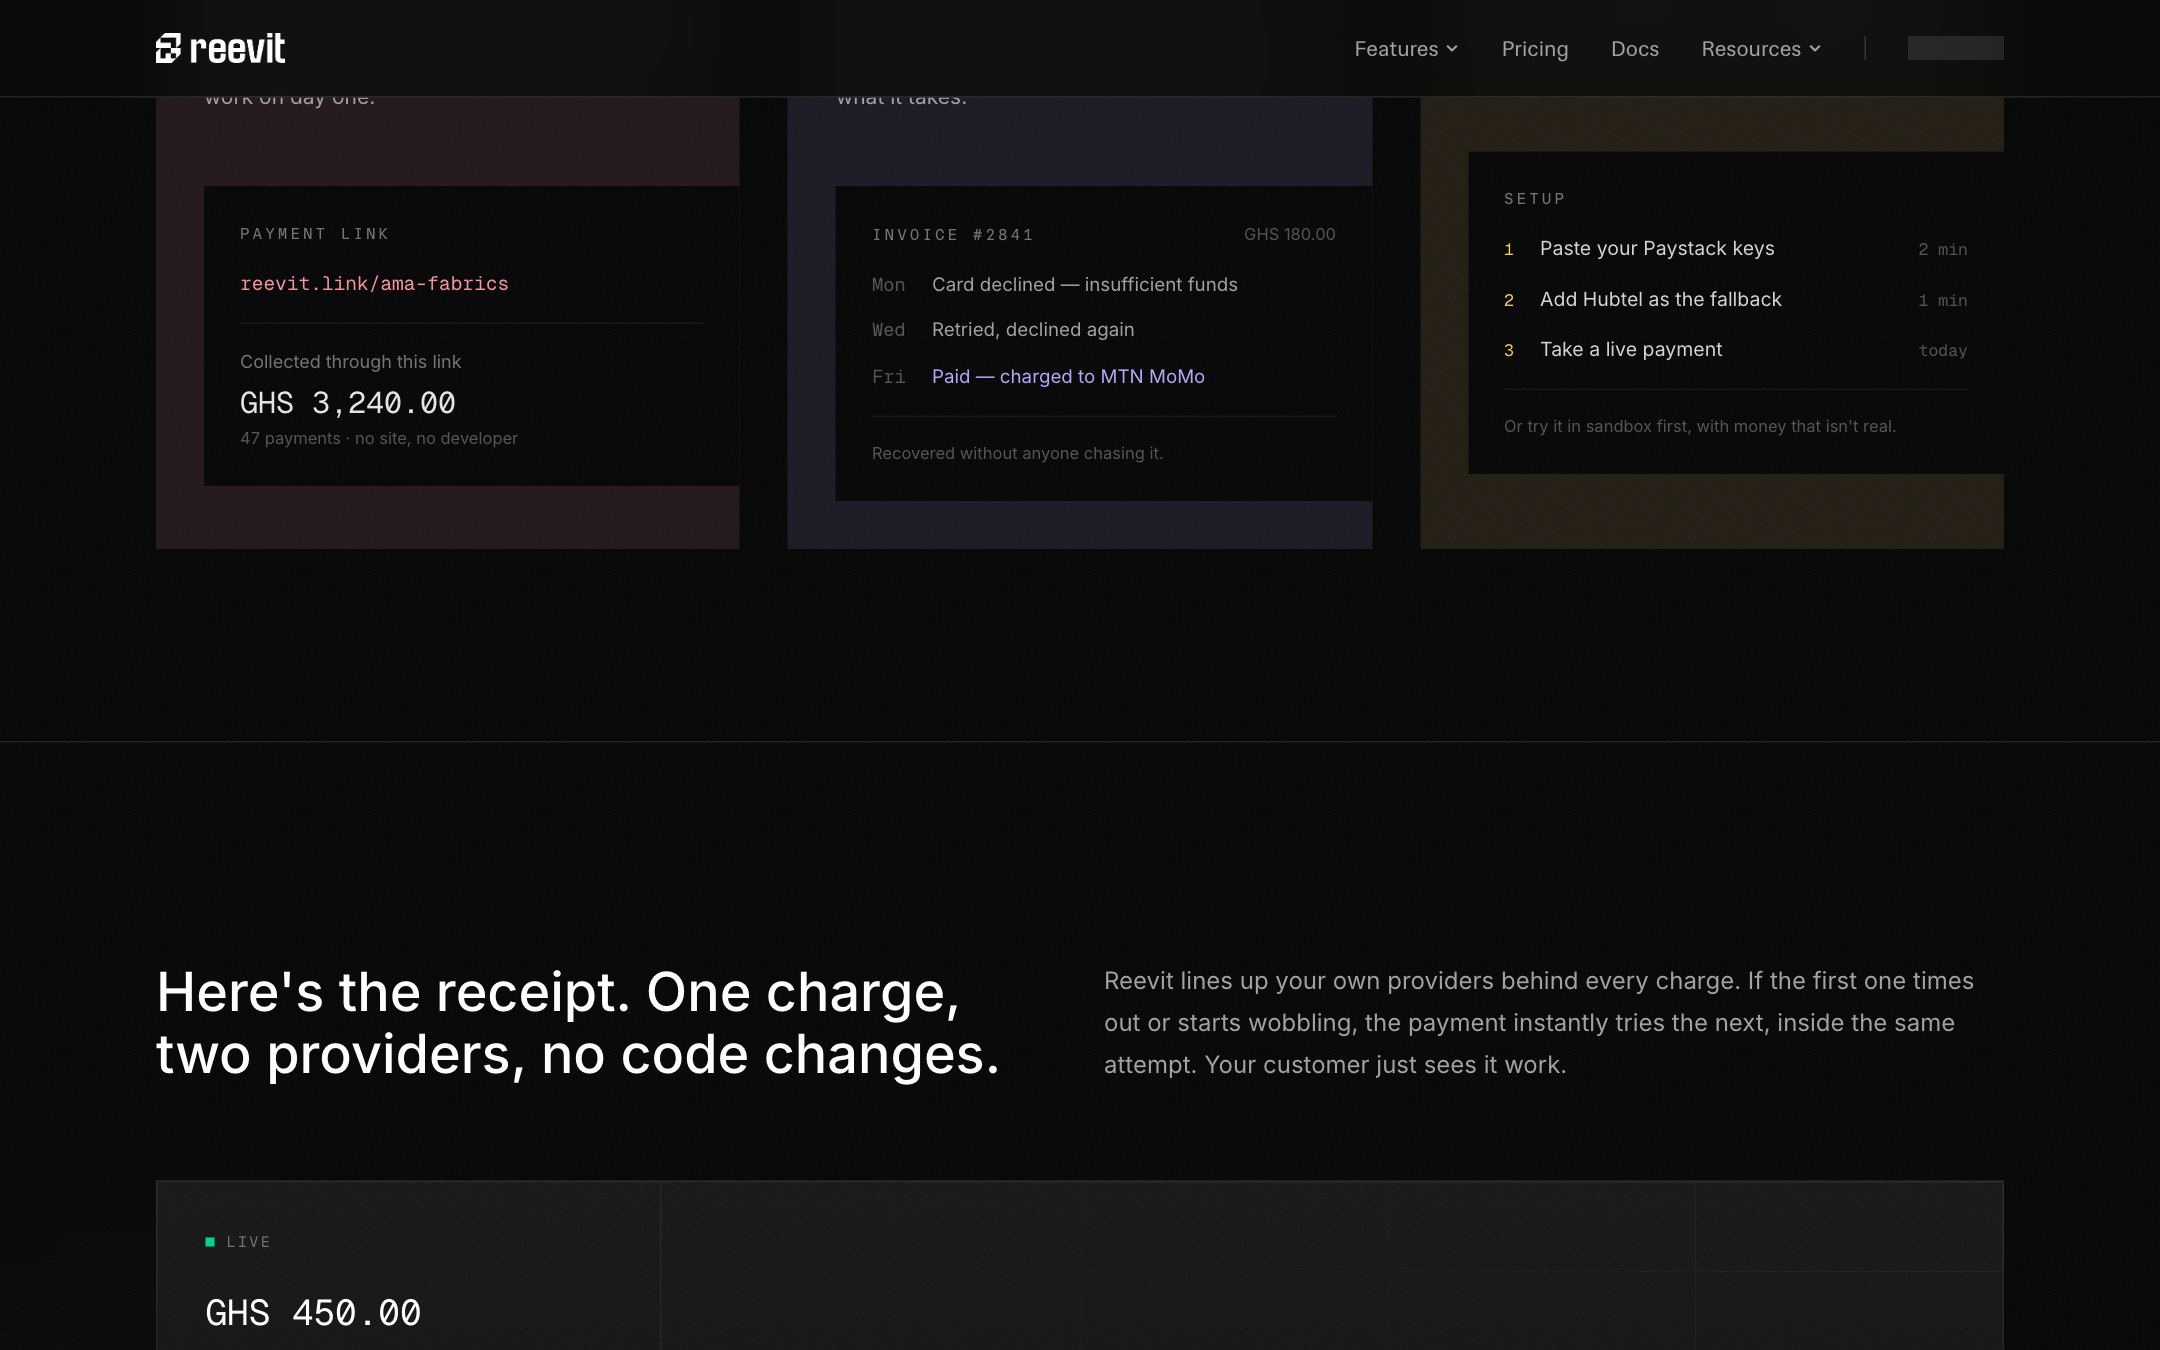
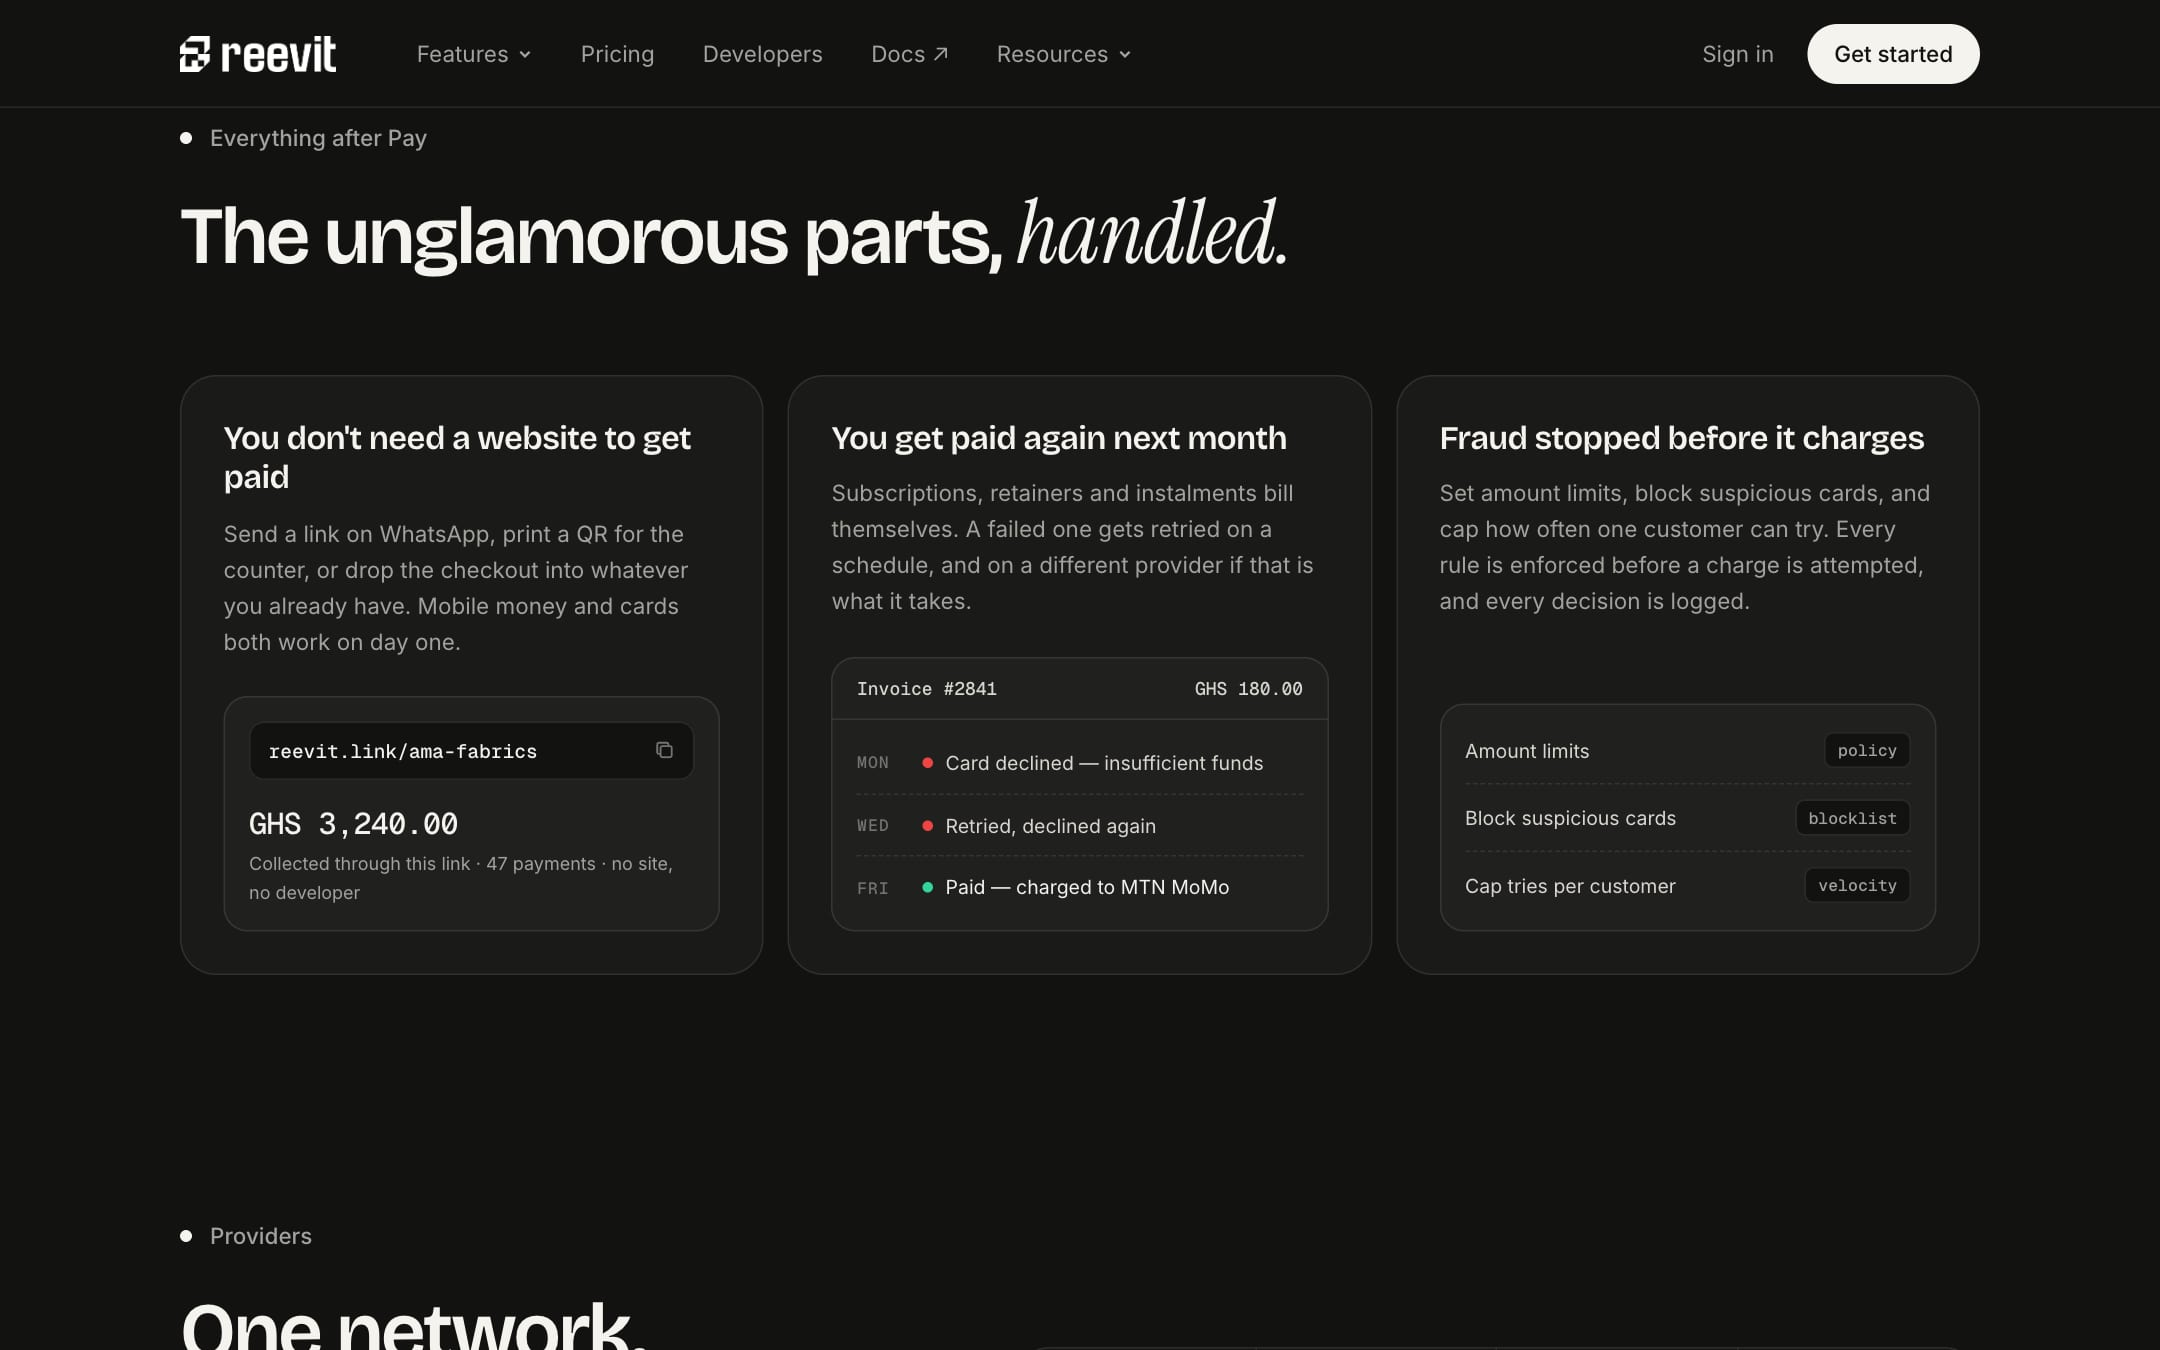
feat(work): update Reevit to the redesigned reevit.io
New cover, hero, phone shot and four product screens (routing chain,
invoice retries, payment links, dashboard overview), with crops, captions
and image descriptions to match. Drops three captures nothing referenced.

diff --git a/lib/site/project-details.ts b/lib/site/project-details.ts
@@ -380,8 +380,8 @@ export const DETAILS: Record<string, ProjectDetail> = {
             w: 2160,
             h: 1350,
             url: 'reevit.io',
-            alt: 'Reevit homepage: the headline “One provider goes down. Your customers never know.” above the merchant dashboard snapshot',
-            cap: ['reevit.io · homepage and merchant dashboard', 'Figures in the product UI are demo data'],
+            alt: 'Reevit homepage: the headline “One provider goes down. Your customers never know.” with provider icons and a rerouted-payment receipt set into the type',
+            cap: ['reevit.io · homepage', 'Figures in the product UI are demo data'],
         },
         brief: {
             statement: 'Payments that keep working',
@@ -429,10 +429,10 @@ export const DETAILS: Record<string, ProjectDetail> = {
                     title: 'A declined charge isn’t a lost sale.',
                     body: 'When a provider declines or stops answering, the same charge moves to the next one in the merchant’s chain, inside the same tap. Nobody has to ask the customer to try again.',
                     src: '/assets/case/reevit-s2.jpg',
-                    url: 'reevit.io/#features',
-                    crop: [0.055, 0.235, 0.45, 0.56],
-                    alt: 'Routing recovery card: payments recovered after failover, first-try and after-failover approval rates',
-                    cap: 'Routing recovery',
+                    url: 'reevit.io/#route',
+                    crop: [0.458, 0.2, 0.469, 0.6],
+                    alt: 'Routing chain for mobile money in Ghana: Paystack as primary with Hubtel and Flutterwave as fallbacks, each with a 48-hour health bar, above the amount recovered this month and approval rates on first try and after failover',
+                    cap: 'Routing chain and recovery',
                     note: 'Product UI · demo data',
                 },
                 {
@@ -440,9 +440,9 @@ export const DETAILS: Record<string, ProjectDetail> = {
                     title: 'Retries that change lanes.',
                     body: 'Subscriptions and instalments retry on a schedule, and on a different provider when one keeps declining. The invoice gets paid without anyone chasing it.',
                     src: '/assets/case/reevit-s3.jpg',
-                    url: 'reevit.io/#features',
-                    crop: [0.355, 0.1, 0.285, 0.33],
-                    alt: 'Invoice card: card declined Monday, declined again Wednesday, paid Friday by charging MTN MoMo',
+                    url: 'reevit.io/#more',
+                    crop: [0.354, 0.26, 0.293, 0.48],
+                    alt: '“You get paid again next month”: an invoice declined on Monday, declined again on Wednesday, then paid on Friday by charging MTN MoMo',
                     cap: 'Invoice retry timeline',
                     note: 'Product UI · demo data',
                 },
@@ -452,10 +452,10 @@ export const DETAILS: Record<string, ProjectDetail> = {
                     body: 'A payment link on WhatsApp, a QR on the counter, or the drop-in checkout. Mobile money and cards work on day one.',
                     chips: ['WhatsApp', 'QR code', 'Mobile money', 'Cards'],
                     src: '/assets/case/reevit-s6.jpg',
-                    url: 'reevit.io/#checkout',
-                    crop: [0.36, 0.07, 0.58, 0.65],
-                    alt: 'Hosted checkout asking for a mobile money number, above the steps: share the link anywhere, get paid',
-                    cap: 'Hosted checkout + payment links',
+                    url: 'reevit.io/#more',
+                    crop: [0.072, 0.26, 0.293, 0.48],
+                    alt: '“You don’t need a website to get paid”: a reevit.link payment link and the total collected through it',
+                    cap: 'Payment links',
                     note: 'Product UI · demo data',
                 },
                 {
@@ -464,10 +464,10 @@ export const DETAILS: Record<string, ProjectDetail> = {
                     body: 'Payments, routing decisions, webhooks and provider health in one place, in test and live mode. Workflows can run the moment a payment lands.',
                     broad: true,
                     src: '/assets/case/reevit-s7.jpg',
-                    url: 'dashboard · snapshot',
-                    crop: [0.075, 0.079, 0.57, 0.43],
-                    alt: 'Merchant dashboard snapshot: volume, success rate and recovered totals above a live activity feed of payments across Paystack and Hubtel',
-                    cap: 'Dashboard · snapshot',
+                    url: 'reevit.io/#product',
+                    crop: [0.065, 0.089, 0.871, 0.902],
+                    alt: 'Merchant dashboard overview: a plain-language summary of the day, saying Hubtel slowed down and 12 payments moved to Paystack, above a daily volume chart and totals for gross volume, success rate and payments moved to another provider',
+                    cap: 'Dashboard · overview',
                     note: 'Product UI · demo data',
                 },
             ],
@@ -479,7 +479,7 @@ export const DETAILS: Record<string, ProjectDetail> = {
             desktop: '/assets/case/reevit-s0.jpg',
             url: 'reevit.io',
             mobile: '/assets/case/reevit-mobile.jpg',
-            alt: 'Reevit homepage on a phone: the headline and dashboard preview reflowed for a 390px screen',
+            alt: 'Reevit homepage on a phone: the headline, both buttons and the top of the dashboard preview stacked for a 390px screen',
             sr: 'Reevit on desktop and on a phone.',
             cap: ['Same product, same checkout, desktop and phone', 'reevit.io, live'],
         },
